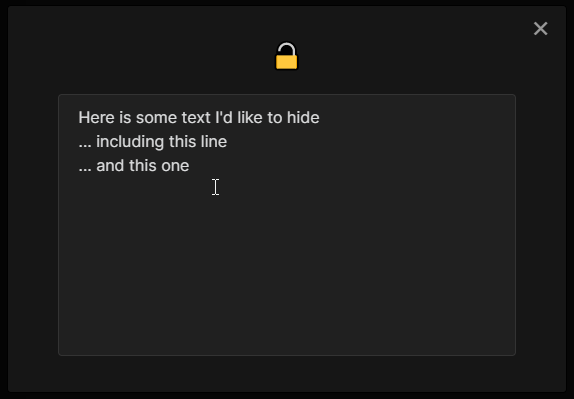
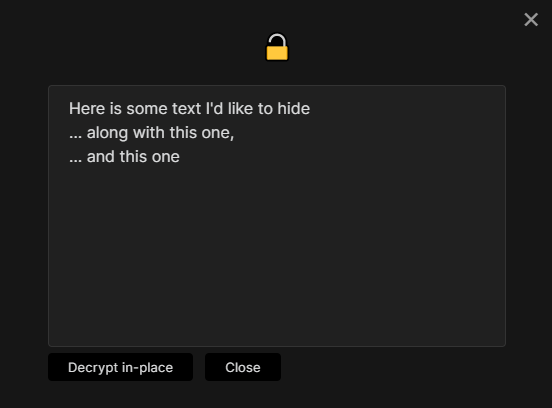
updated readme and screenshots

diff --git a/README.md b/README.md
@@ -4,7 +4,7 @@
 
 Hide secrets in your [Obsidian.md](https://obsidian.md/) notes.
 
-This plugin allows you to encrypt portions of your notes allowing you to store sensitive details along with other information.
+This plugin allows you to encrypt portions of text so you can store sensitive details within and alongside your notes.
 
 Under the hood it uses the Advanced Encryption Standard (AES) in GCM mode.
 
@@ -12,48 +12,53 @@ Under the hood it uses the Advanced Encryption Standard (AES) in GCM mode.
 
 ## Usage
 
+<!-- https://raw.githubusercontent.com/meld-cp/obsidian-encrypt/main/ -->
+
 ### How to encrypt text
 
 1. Select the text lines to encrypt  
-<img alt="Select the text lines to encrypt" src="https://raw.githubusercontent.com/meld-cp/obsidian-encrypt/main/docs/assets/eg_e_text.png" /> 
-Partial, selection is ok, it will be expanded to include the whole line.
+<img alt="Select the text lines to encrypt" src="docs/assets/eg_e_text.png" />  
+	> Note: Partial, selection is ok, it will be expanded to include the whole line.
 
 1. Run the Encrypt/Decrypt command from the palette (or bind a keyboard shortcut to it)  
-<img alt="Run the Encrypt/Decrypt command" src="https://raw.githubusercontent.com/meld-cp/obsidian-encrypt/main/docs/assets/eg_ed_cp.png" /> 
+<img alt="Run the Encrypt/Decrypt command" src="docs/assets/eg_ed_cp.png" /> 
 
-1. Enter a password to use  
-<img alt="Enter a password to use" src="https://raw.githubusercontent.com/meld-cp/obsidian-encrypt/main/docs/assets/eg_ed_pw.png" /> 
+1. Enter and confirm a password to use  
+<img alt="Enter a password to use" src="docs/assets/eg_e_pw.png" /> 
 
 1. Your selected lines are now encrypted  
-<img alt="Your selected lines are now encrypted" src="https://raw.githubusercontent.com/meld-cp/obsidian-encrypt/main/docs/assets/eg_e_r.png" /> 
+<img alt="Your selected lines are now encrypted" src="docs/assets/eg_e_r.png" /> 
 
-<!-- TODO: add gif -->
 
 ### How to reveal your encrypted text
 1. Place your cursor on the encrypted line  
-<img alt="Place your cursor on the encrypted line" src="https://raw.githubusercontent.com/meld-cp/obsidian-encrypt/main/docs/assets/eg_d_text.png" /> 
+<img alt="Place your cursor on the encrypted line" src="docs/assets/eg_d_text.png" /> 
 
 1. Run the Encrypt/Decrypt command from the palette  
-<img alt="Run the Encrypt/Decrypt command" src="https://raw.githubusercontent.com/meld-cp/obsidian-encrypt/main/docs/assets/eg_ed_cp.png" /> 
+<img alt="Run the Encrypt/Decrypt command" src="docs/assets/eg_ed_cp.png" /> 
+	> Note: If you choose 'Encrypt/Decrypt In-place' your text will be decrypted directly into the editor without showing the dialog in step 4 below.
 
 1. Enter the correct password  
-<img alt="Enter the correct password" src="https://raw.githubusercontent.com/meld-cp/obsidian-encrypt/main/docs/assets/eg_ed_pw.png" /> 
+<img alt="Enter the correct password" src="docs/assets/eg_d_pw.png" /> 
+	> Note: Your previously used password is filled in by default (You can change this in the plugin settings).
 
 1. Your decrypted text is revealed  
-<img alt="Your decrypted text is revealed" src="https://raw.githubusercontent.com/meld-cp/obsidian-encrypt/main/docs/assets/eg_d_r.png" /> 
+<img alt="Your decrypted text is revealed" src="docs/assets/eg_d_r.png" /> 
+	> Note: Click 'Decrypt In-place' to replace the encrypted text in the editor.
 
-<!-- TODO: add gif -->
+## Settings
+<img alt="Your decrypted text is revealed" src="docs/assets/eg_settings.png" /> 
 
 ## Installation
 
 You can install the plugin via the Community Plugins tab within Obsidian by searching for "Encrypt"
 
 
-## Find this plugin useful?
-
-Thank you for your support 🙏
+## Do you find this plugin useful?
 
 <a href="https://www.buymeacoffee.com/cleon"><img src="https://img.buymeacoffee.com/button-api/?text=Buy me a coffee&emoji=&slug=cleon&button_colour=FFDD00&font_colour=000000&font_family=Cookie&outline_colour=000000&coffee_colour=ffffff"></a>
 
-## More info
-- [Crypto details](https://github.com/meld-cp/obsidian-encrypt/blob/main/docs/crypto-details.md)
+Thank you for your support 🙏
+
+## More information
+- [Encryption details](https://github.com/meld-cp/obsidian-encrypt/blob/main/docs/crypto-details.md)
